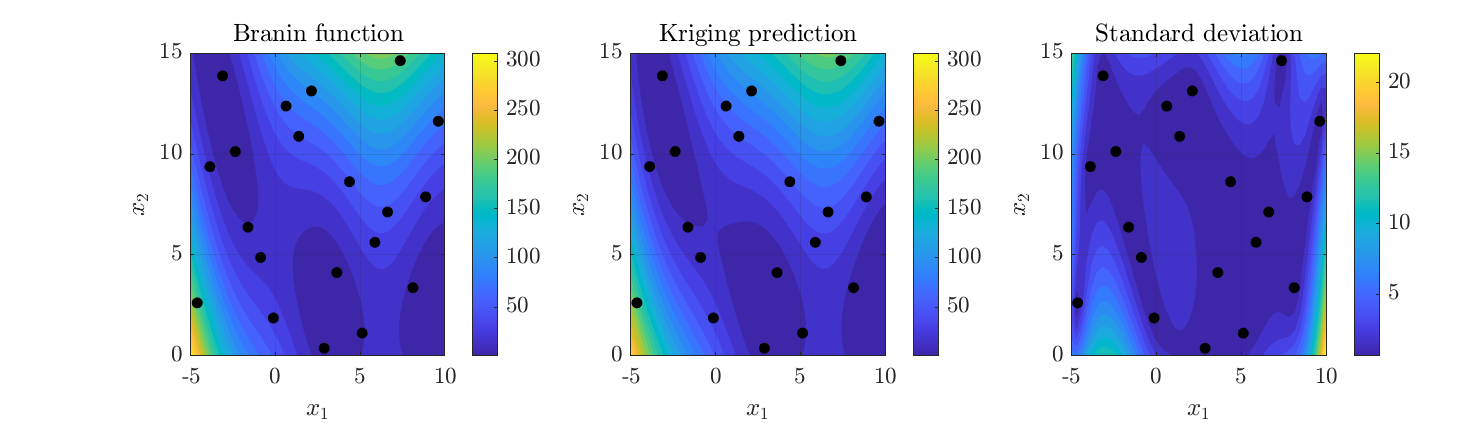
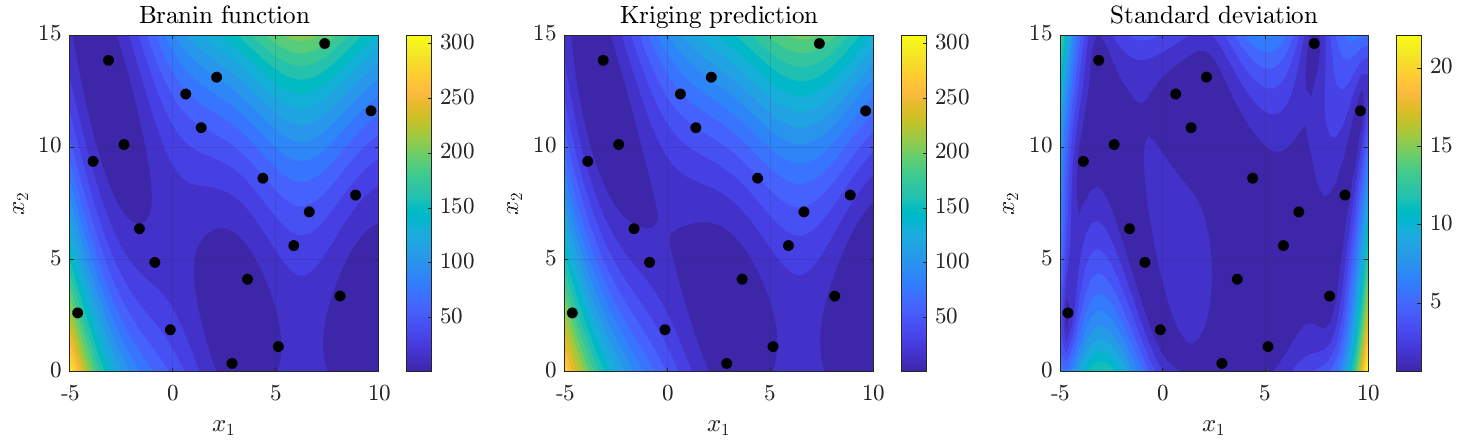
Use 20 expensive samples in the Branin co-Kriging example and centre the README figures

diff --git a/examples/braninCoKriging.m b/examples/braninCoKriging.m
@@ -1,8 +1,8 @@
 function results = braninCoKriging()
 % braninCoKriging  Co-Kriging on the two-fidelity Branin pair of Dong et al.
 %
-%   40 cheap and 10 expensive Latin hypercube samples. Co-Kriging is
-%   compared with Kriging fitted on the 10 expensive samples alone, on a
+%   40 cheap and 20 expensive Latin hypercube samples. Co-Kriging is
+%   compared with Kriging fitted on the 20 expensive samples alone, on a
 %   50-by-50 grid of the expensive function.
 %
 %   The example shows a limit of the autoregressive model. Over the domain
@@ -11,7 +11,7 @@ function results = braninCoKriging()
 %   and co-Kriging does no better than Kriging on the expensive samples.
 bounds = [-5 0; 10 15];
 xLow = bounds(1, :) + kriging.latinHypercube(40, 2, Seed=2) .* diff(bounds);
-xHigh = bounds(1, :) + kriging.latinHypercube(10, 2, Seed=3) .* diff(bounds);
+xHigh = bounds(1, :) + kriging.latinHypercube(20, 2, Seed=3) .* diff(bounds);
 yLow = benchmarks.braninLowFidelity(xLow);
 yHigh = benchmarks.braninHighFidelity(xHigh);
 opts = kriging.FitOptions();
@@ -34,7 +34,7 @@ fprintf("Two-fidelity Branin: grid RMSE %.3f with co-Kriging, %.3f with Kriging 
     co.RMSE, kr.RMSE, coKriging.Rho, correlation);
 
 fig = figure(Name="Branin: co-Kriging", Position=[100 100 1100 330]);
-layout = tiledlayout(fig, 1, 3, TileSpacing="compact");
+layout = tiledlayout(fig, 1, 3, TileSpacing="compact", Padding="tight");
 panels = {yGrid, yCo, yKr};
 titles = ["Expensive function", "Co-Kriging", "Kriging, expensive samples only"];
 for k = 1:3

diff --git a/tools/makeReadmeAssets.m b/tools/makeReadmeAssets.m
@@ -45,4 +45,22 @@ set(fig, "PaperUnits", "centimeters", "PaperSize", fig.Position(3:4), ...
     "PaperPosition", [0 0 fig.Position(3:4)]);
 print(fig, file, "-dpng", "-r150");
 close(fig);
+centerDrawing(file);
+end
+
+function centerDrawing(file)
+% Move the drawing to the centre of the image without changing the image
+% size, so that the unequal margins MATLAB leaves around the axes do not push
+% the figure to one side.
+img = imread(file);
+ink = any(img < 255, 3);
+rows = find(any(ink, 2));
+cols = find(any(ink, 1));
+drawing = img(rows(1):rows(end), cols(1):cols(end), :);
+[h, w] = size(drawing, [1 2]);
+top = floor((size(img, 1) - h) / 2);
+left = floor((size(img, 2) - w) / 2);
+centered = 255 * ones(size(img), "like", img);
+centered(top + (1:h), left + (1:w), :) = drawing;
+imwrite(centered, file);
 end

diff --git a/examples/braninKriging.m b/examples/braninKriging.m
@@ -22,7 +22,7 @@ fprintf("Branin, %d samples: grid RMSE %.3f (output range %.0f), R^2 %.4f\n", ..
     nTrain, metrics.RMSE, max(yGrid) - min(yGrid), metrics.R2);
 
 fig = figure(Name="Branin: Kriging", Position=[100 100 1100 330]);
-layout = tiledlayout(fig, 1, 3, TileSpacing="compact");
+layout = tiledlayout(fig, 1, 3, TileSpacing="compact", Padding="tight");
 panels = {yGrid, yHat, sqrt(s2)};
 titles = ["Branin function", "Kriging prediction", "Standard deviation"];
 for k = 1:3

diff --git a/README.md b/README.md
@@ -81,7 +81,7 @@ results = forresterCoKriging();
 | `hartmann6Convergence` | 25, 50, 100, 200, 400 samples of the 6-D Hartmann function | test RMSE from 0.446 to 0.125 |
 | `airfoilNoise` | 1202 measured rows | test RMSE 1.24 dB, R<sup>2</sup> 0.965, noise from the nugget 0.81 dB |
 | `forresterCoKriging` | 11 cheap and 4 expensive samples | RMSE 0.232 with co-Kriging (rho 1.89), 5.616 with Kriging |
-| `braninCoKriging` | 40 cheap and 10 expensive samples | RMSE 57.501 with co-Kriging (rho -0.002), 56.982 with Kriging: the fidelities correlate at 0.15 only |
+| `braninCoKriging` | 40 cheap and 20 expensive samples | RMSE 15.108 with co-Kriging (rho 0.005), 15.165 with Kriging: the fidelities correlate at 0.15 only |
 
 The two-fidelity Branin pair is kept as a negative case. Its cheap function follows the expensive one
 poorly over the domain, so no scale `rho` turns it into a useful predictor, `rho` comes out close to
@@ -89,15 +89,15 @@ zero and co-Kriging does no better than Kriging on the expensive samples. The au
 off when the cheap function matches the expensive one up to a scale and a smooth correction, as in the
 Forrester case.
 
-<img src="docs/figures/branin-kriging.png" alt="Kriging on the Branin function" width="100%">
+<p align="center"><img src="docs/figures/branin-kriging.png" alt="Kriging on the Branin function" width="100%"></p>
 
-<img src="docs/figures/forrester-cokriging.png" alt="Co-Kriging on the Forrester function" width="60%">
+<p align="center"><img src="docs/figures/forrester-cokriging.png" alt="Co-Kriging on the Forrester function" width="60%"></p>
 
-<img src="docs/figures/branin-cokriging.png" alt="Co-Kriging on the two-fidelity Branin pair" width="100%">
+<p align="center"><img src="docs/figures/branin-cokriging.png" alt="Co-Kriging on the two-fidelity Branin pair" width="100%"></p>
 
-<img src="docs/figures/hartmann6-convergence.png" alt="Convergence on the 6-D Hartmann function" width="60%">
+<p align="center"><img src="docs/figures/hartmann6-convergence.png" alt="Convergence on the 6-D Hartmann function" width="60%"></p>
 
-<img src="docs/figures/airfoil-parity.png" alt="Parity plot on the airfoil self-noise data" width="60%">
+<p align="center"><img src="docs/figures/airfoil-parity.png" alt="Parity plot on the airfoil self-noise data" width="60%"></p>
 
 `tools/makeReadmeAssets` reruns the examples and regenerates these figures and the table.
 
